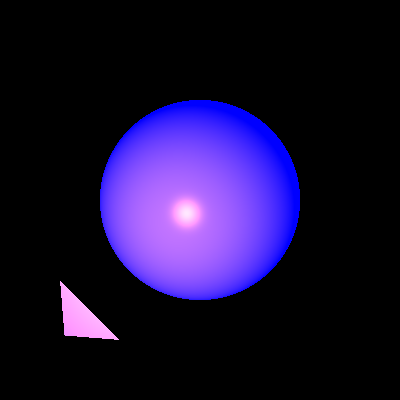
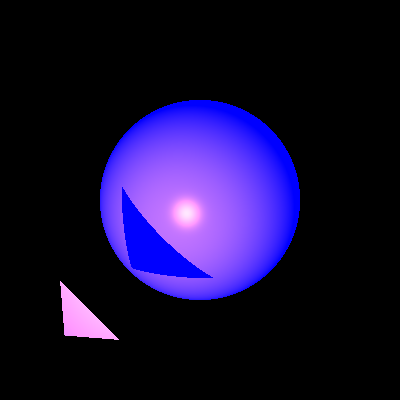
stage 7 - until 6

Changed region(s): [[0.3, 0.48, 0.54, 0.72]]

diff --git a/unitTests/renderer/ShadowTests.java b/unitTests/renderer/ShadowTests.java
@@ -42,4 +42,68 @@ public class ShadowTests {
                 new Point(-100, -100, 200));
     }
 
+    /**
+     * Sphere-Triangle shading - move triangle up-right
+     */
+
+    @Test
+    public void sphereTriangleMove1() {
+        sphereTriangleHelper("shadowSphereTriangleMove2", //
+                new Triangle(new Point(???, ???, ???), new Point(???, ???, ???), new Point(???, ???, ???)), //
+        new Point(-100, -100, 200));
+    }
+
+    /**
+     * Sphere-Triangle shading - move triangle upper-righter
+     */
+    @Test
+    public void sphereTriangleMove2() {
+        sphereTriangleHelper("shadowSphereTriangleMove1", //
+                new Triangle(new Point(???, ???, ???), new Point(???, ???, ???), new Point(???, ???, ???)), //
+        new Point(-100, -100, 200));
+    }
+
+    /** Sphere-Triangle shading - move spot closer */
+    @Test
+    public void sphereTriangleSpot1() {
+        sphereTriangleHelper("shadowSphereTriangleSpot1", //
+                new Triangle(new Point(-70, -40, 0), new Point(-40, -70, 0), new Point(-68, -68, -4)), //
+                new Point(???, ???, ???));
+    }
+
+    /** Sphere-Triangle shading - move spot even more close */
+    @Test
+    public void sphereTriangleSpot2() {
+        sphereTriangleHelper("shadowSphereTriangleSpot2", //
+                new Triangle(new Point(-70, -40, 0), new Point(-40, -70, 0), new Point(-68, -68, -4)), //
+                new Point(???, ???, ???));
+    }
+
+    /** Produce a picture of a two triangles lighted by a spot light with a Sphere
+     * producing a shading */
+    @Test
+    public void trianglesSphere() {
+
+        scene = new Scene.SceneBuilder("Test scene").setAmbientLight(new AmbientLight(new Color(WHITE), new Double3(0.15))).build();
+
+
+        scene.getGeometries().add( //
+                new Triangle(new Point(-150, -150, -115), new Point(150, -150, -135),
+                        new Point(75, 75, -150)) //
+                        .setMaterial(new Material().setKs(0.8).setShininess(60)), //
+                new Triangle(new Point(-150, -150, -115), new Point(-70, 70, -140), new Point(75, 75, -150)) //
+                        .setMaterial(new Material().setKs(0.8).setShininess(60)), //
+                new Sphere(new Point(0, 0, -11), 30d) //
+                        .setEmission(new Color(BLUE)) //
+                        .setMaterial(new Material().setKd(0.5).setKs(0.5).setShininess(30)) //
+        );
+        scene.getLights().add( //
+                new SpotLight(new Color(700, 400, 400), new Point(40, 40, 115), new Vector(-1, -1, -4)) //
+                        .setKl(4E-4).setKq(2E-5));
+
+        camera.setImageWriter(new ImageWriter("shadowTrianglesSphere", 600, 600)) //
+                .renderImage() //
+                .writeToImage();
+    }
+
 }

diff --git a/src/renderer/RayTracerBasic.java b/src/renderer/RayTracerBasic.java
@@ -31,11 +31,12 @@ public class RayTracerBasic extends RayTracerBase {
         if (intersections == null)
             return true;
 
-        double distancePoint_lightSource = lightSource.getDistance(gp.point);//מרחק בין נקודה לבין מקור האור
+        double distancePoint_lightSource = lightSource.getDistance(gp.point);//מרחק בין ראש הקרן לבין מקור האור
 
         for (GeoPoint intersection : intersections){
 
-            if (intersection.point.distanceSquared(lightRay.getP0()) < distancePoint_lightSource)//מרחקים בין ראש הקרן לבין נקודות חיתוך
+            double dis = intersection.point.distanceSquared(gp.point);
+            if (dis < distancePoint_lightSource)//מרחקים בין ראש הקרן לבין נקודות חיתוך
                 return false;
         }
         return true;

diff --git a/unitTests/lighting/LightsTests.java b/unitTests/lighting/LightsTests.java
@@ -67,7 +67,7 @@ public class LightsTests {
     private final Geometry       triangle2               = new Triangle(vertices[0], vertices[1], vertices[3])
             .setMaterial(material);
 
-   /* @Test
+    @Test
     public void polygonTest() {
 
         for (int i = 0; i < 5; ++i) {
@@ -97,7 +97,7 @@ public class LightsTests {
                 .writeToImage(); //
     }
 
-*/
+
 
     /**
      * Produce a picture of a sphere lighted by a spot light

diff --git a/src/lighting/PointLight.java b/src/lighting/PointLight.java
@@ -40,7 +40,7 @@ public class PointLight extends Light implements LightSource{
     @Override
     public double getDistance(Point point) {
 
-        return this.position.distance(point);
+        return this.position.distanceSquared(point);
     }
 
     /**
